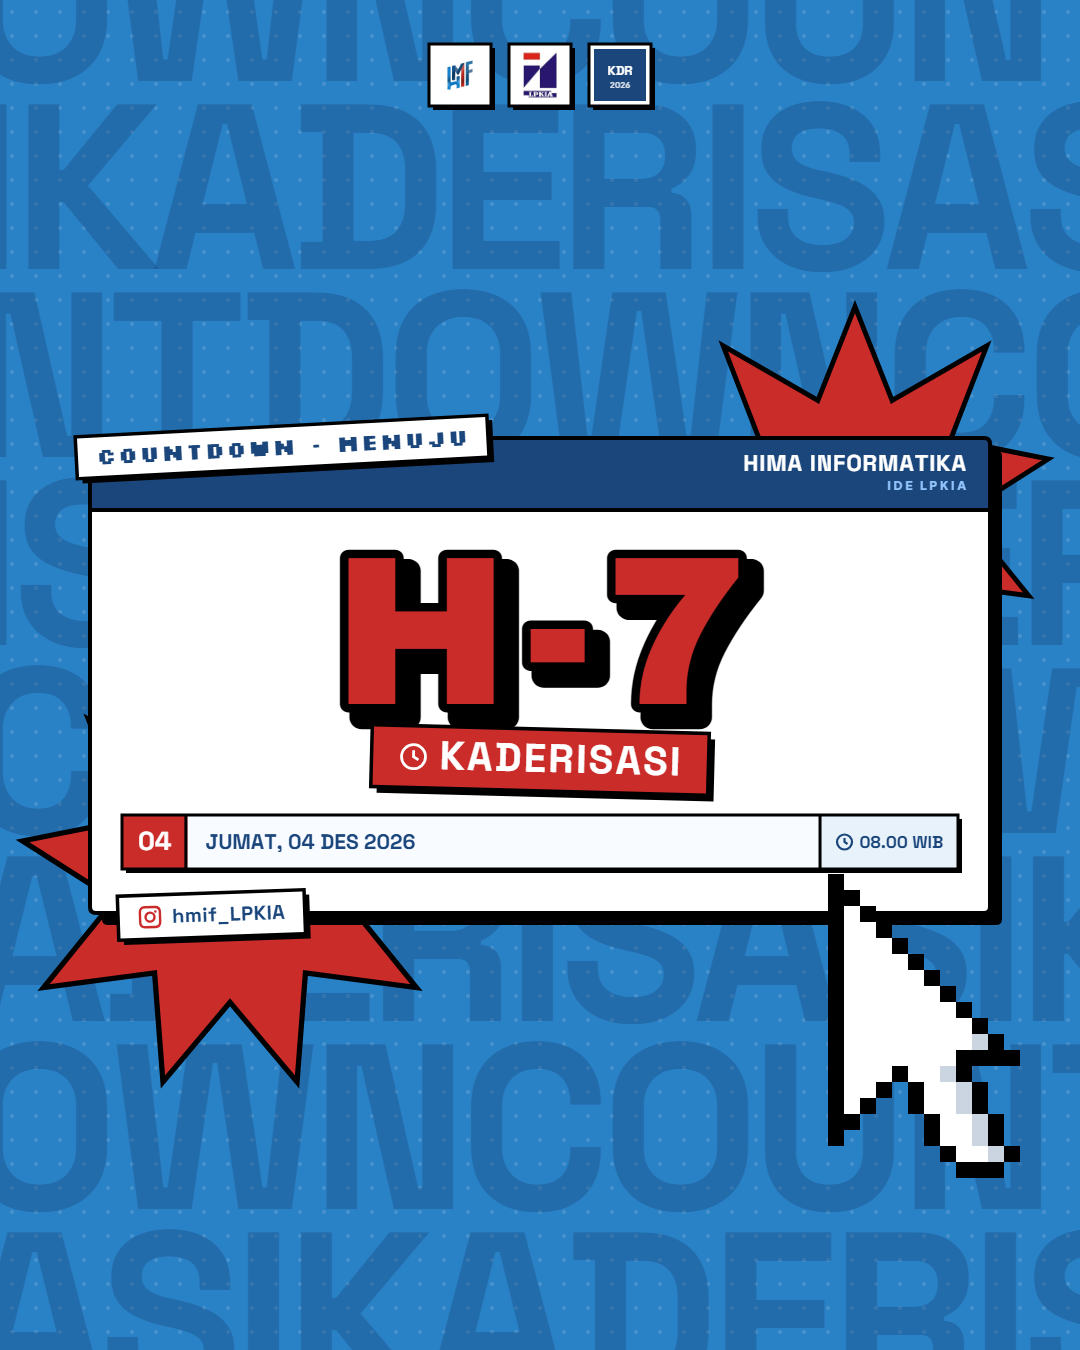
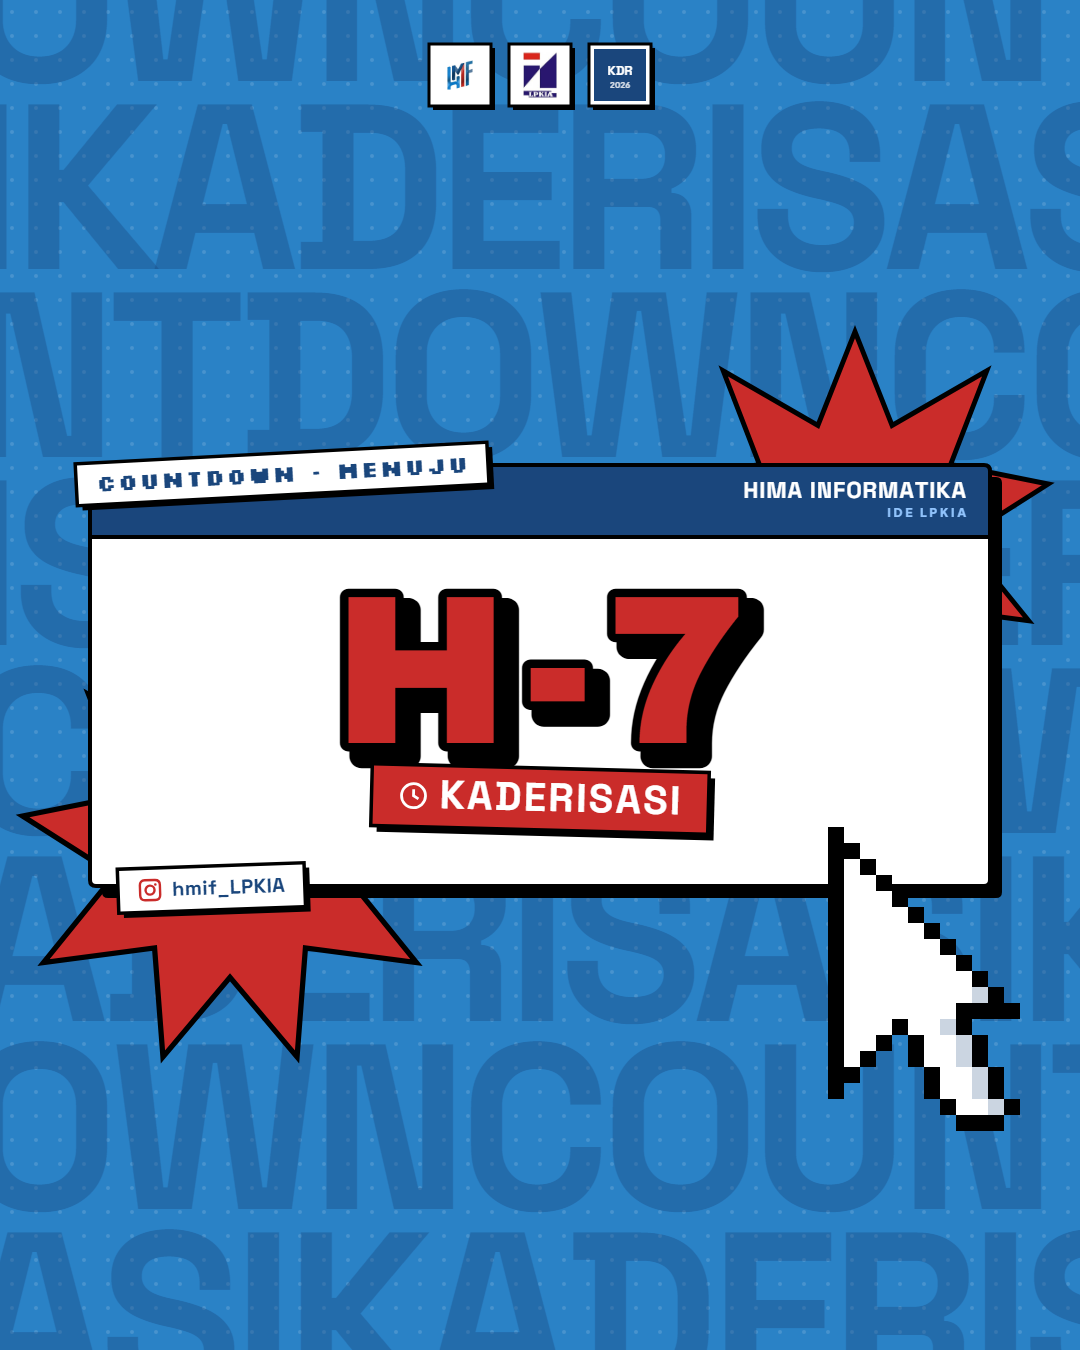
style: remove schedule strip from Layout 2 for cleaner H-7 hero focus

Changed region(s): [[0.0, 0.2178, 0.9778, 0.8711], [0.9167, 0.4044, 0.9778, 0.4667]]

diff --git a/index.html b/index.html
@@ -190,22 +190,22 @@
         .ratio-1-1 .l2-hero-svg { width: 560px; height: 160px; }
         .ratio-9-16 .l2-hero-svg { width: 680px; height: 225px; }
 
-        .l2-star-tr { top: 50%; right: 20px; transform: translateY(-380px); width: 410px; height: 410px; }
-        .l2-star-bl { top: 50%; left: 10px;  transform: translateY(-10px);  width: 440px; height: 440px; }
-        .ratio-9-16 .l2-star-tr { transform: translateY(-410px); width: 450px; height: 450px; }
-        .ratio-9-16 .l2-star-bl { transform: translateY(0px);   width: 480px; height: 480px; }
-        .ratio-1-1  .l2-star-tr { transform: translateY(-340px); width: 340px; height: 340px; }
-        .ratio-1-1  .l2-star-bl { transform: translateY(-10px);  width: 360px; height: 360px; }
+        .l2-star-tr { top: 50%; right: 20px; transform: translateY(-355px); width: 410px; height: 410px; }
+        .l2-star-bl { top: 50%; left: 10px;  transform: translateY(-35px);  width: 440px; height: 440px; }
+        .ratio-9-16 .l2-star-tr { transform: translateY(-385px); width: 450px; height: 450px; }
+        .ratio-9-16 .l2-star-bl { transform: translateY(-25px);  width: 480px; height: 480px; }
+        .ratio-1-1  .l2-star-tr { transform: translateY(-320px); width: 340px; height: 340px; }
+        .ratio-1-1  .l2-star-bl { transform: translateY(-35px);  width: 360px; height: 360px; }
 
         .l2-cursor-wrap {
             position: absolute;
             right: -30px;
-            bottom: -265px;
+            bottom: -245px;
             z-index: 30;
             pointer-events: none;
         }
-        .ratio-9-16 .l2-cursor-wrap { right: -26px; bottom: -298px; transform: scale(1.12); transform-origin: bottom right; }
-        .ratio-1-1  .l2-cursor-wrap { right: -24px; bottom: -224px; transform: scale(0.86); transform-origin: bottom right; }
+        .ratio-9-16 .l2-cursor-wrap { right: -26px; bottom: -275px; transform: scale(1.12); transform-origin: bottom right; }
+        .ratio-1-1  .l2-cursor-wrap { right: -24px; bottom: -210px; transform: scale(0.86); transform-origin: bottom right; }
 
         /* ================= THEME 1: NEUBRUTALISM ================= */
         .style-neubrutalism {
@@ -1023,8 +1023,8 @@
                                         </div>
                                     </div>
 
-                                    <!-- White Dialog Hero Highlight (Fokus H-7 + Stamp KADERISASI + Jadwal Tanggal & Waktu) -->
-                                    <div class="px-8 pt-6 pb-11 flex flex-col items-center">
+                                    <!-- White Dialog Hero Highlight (Fokus H-7 + Stamp KADERISASI) -->
+                                    <div class="px-8 pt-9 pb-14 flex flex-col items-center">
                                         <!-- Giant H-7 Highlight SVG -->
                                         <svg viewBox="0 0 680 220" class="l2-hero-svg overflow-visible" aria-label="H-7">
                                             <text id="l2SvgShadow" x="354" y="122" text-anchor="middle" dominant-baseline="central"
@@ -1048,29 +1048,6 @@
                                             <span id="l2OutTitle" class="font-display text-[40px] font-bold uppercase tracking-[0.06em] leading-none">
                                                 KADERISASI
                                             </span>
-                                        </div>
-
-                                        <!-- Single Unified Schedule Bar (Tanpa Lokasi) -->
-                                        <div class="w-full mt-6">
-                                            <div class="l2-chip w-full flex items-center justify-between overflow-hidden">
-                                                <div class="flex items-center min-w-0">
-                                                    <div id="l2OutNum" class="l2-chip-num px-4 py-2.5 font-display text-[26px] font-bold leading-none shrink-0">
-                                                        04
-                                                    </div>
-                                                    <p id="l2OutDate" class="font-display text-[21px] font-bold uppercase text-[#1A467C] px-4 leading-none truncate">
-                                                        JUMAT, 04 DES 2026
-                                                    </p>
-                                                </div>
-                                                <div class="px-4 py-2.5 bg-[#E8F2FA] border-l-[3px] border-black flex items-center gap-2 shrink-0">
-                                                    <svg class="w-4 h-4 text-[#1A467C] shrink-0" fill="none" stroke="currentColor" stroke-width="2.5" viewBox="0 0 24 24" aria-hidden="true">
-                                                        <circle cx="12" cy="12" r="9"></circle>
-                                                        <path stroke-linecap="square" d="M12 7v5l3.5 2"></path>
-                                                    </svg>
-                                                    <p id="l2OutTime" class="font-display text-[17px] font-bold uppercase text-[#1A467C] leading-none">
-                                                        08.00 WIB
-                                                    </p>
-                                                </div>
-                                            </div>
                                         </div>
                                     </div>
                                 </div>
@@ -2271,10 +2248,10 @@
             };
 
             const starCfg = currentRatio === '9-16'
-                ? { trSize: 450, trY: 410, blSize: 480, blY: 0 }
+                ? { trSize: 450, trY: 385, blSize: 480, blY: 25 }
                 : (currentRatio === '1-1'
-                    ? { trSize: 340, trY: 340, blSize: 360, blY: 10 }
-                    : { trSize: 410, trY: 380, blSize: 440, blY: 10 });
+                    ? { trSize: 340, trY: 320, blSize: 360, blY: 35 }
+                    : { trSize: 410, trY: 355, blSize: 440, blY: 35 });
 
             drawStar(W - 20 - starCfg.trSize, H / 2 - starCfg.trY, starCfg.trSize);
             drawStar(10, H / 2 - starCfg.blY, starCfg.blSize);
@@ -2288,10 +2265,9 @@
             const tbH = 74;
             const heroSvgDim = currentRatio === '9-16' ? { w: 680, h: 225 } : (currentRatio === '1-1' ? { w: 560, h: 160 } : { w: 640, h: 205 });
             const stampBoxH = 62;
-            const chipRowH = 54;
-            const bodyPt = 24;
-            const bodyPb = 44;
-            const winH = tbH + bodyPt + heroSvgDim.h - 12 + stampBoxH + 24 + chipRowH + bodyPb;
+            const bodyPt = 36;
+            const bodyPb = 56;
+            const winH = tbH + bodyPt + heroSvgDim.h - 12 + stampBoxH + bodyPb;
             const winY = Math.round((H - winH) / 2);
 
             // Top 3 Logos Bar Pinned at Top Margin of Canvas (Zona Merah)
@@ -2433,55 +2409,6 @@
             drawTextTrack(title, -stW / 2 + 28 + 28 + 12, 1, '700 40px "Space Grotesk", sans-serif', '#FFFFFF', 2.4, 'left');
             ctx.restore();
 
-            // Unified Single Schedule Bar (Tanpa Lokasi: 04 | JUMAT, 04 DES 2026 | Jam)
-            const bodyX = winX + 32;
-            const bodyW = winW - 64;
-            const chipY = stampCY + stampBoxH / 2 + 24;
-
-            ctx.fillStyle = '#000000';
-            ctx.fillRect(bodyX + 4, chipY + 4, bodyW, chipRowH);
-            ctx.fillStyle = '#F8FBFF';
-            ctx.fillRect(bodyX, chipY, bodyW, chipRowH);
-
-            ctx.font = '700 26px "Space Grotesk", sans-serif';
-            const numW = Math.max(ctx.measureText(num).width + 32, 60);
-            ctx.fillStyle = '#CA2C2A';
-            ctx.fillRect(bodyX, chipY, numW, chipRowH);
-            ctx.fillStyle = '#000000';
-            ctx.fillRect(bodyX + numW - 3, chipY, 3, chipRowH);
-
-            const timeTxt = time.toUpperCase();
-            ctx.font = '700 17px "Space Grotesk", sans-serif';
-            const timeTxtW = ctx.measureText(timeTxt).width;
-            const timeBoxW = 32 + 16 + 8 + timeTxtW;
-            const timeBoxX = bodyX + bodyW - timeBoxW;
-            ctx.fillStyle = '#E8F2FA';
-            ctx.fillRect(timeBoxX, chipY, timeBoxW, chipRowH);
-            ctx.fillStyle = '#000000';
-            ctx.fillRect(timeBoxX, chipY, 3, chipRowH);
-
-            ctx.lineWidth = 3;
-            ctx.strokeStyle = '#000000';
-            ctx.strokeRect(bodyX, chipY, bodyW, chipRowH);
-
-            drawTextTrack(num, bodyX + numW / 2, chipY + chipRowH / 2 + 1, '700 26px "Space Grotesk", sans-serif', '#FFFFFF', 0, 'center');
-            drawTextTrack(date, bodyX + numW + 18, chipY + chipRowH / 2 + 1, '700 21px "Space Grotesk", sans-serif', '#1A467C', 0, 'left');
-
-            // Right time clock icon + text
-            const tClkX = timeBoxX + 18 + 8;
-            const tClkY = chipY + chipRowH / 2;
-            ctx.strokeStyle = '#1A467C';
-            ctx.lineWidth = 2.2;
-            ctx.beginPath();
-            ctx.arc(tClkX, tClkY, 7.5, 0, Math.PI * 2);
-            ctx.stroke();
-            ctx.beginPath();
-            ctx.moveTo(tClkX, tClkY - 4);
-            ctx.lineTo(tClkX, tClkY);
-            ctx.lineTo(tClkX + 3, tClkY + 2);
-            ctx.stroke();
-            drawTextTrack(timeTxt, tClkX + 15, chipY + chipRowH / 2 + 1, '700 17px "Space Grotesk", sans-serif', '#1A467C', 0, 'left');
-
             // Bottom-Left Taped Instagram Sticker (Zona Putih): SVG IG Camera + hmif_LPKIA
             ctx.font = '700 20px "Space Grotesk", sans-serif';
             const igTxtW = ctx.measureText(igHandle).width + Math.max(0, igHandle.length - 1) * 0.4;
@@ -2517,10 +2444,10 @@
 
             // 4. Giant 8-Bit Pixelated Arrow Cursor anchored to bottom-right of window
             const curCfg = currentRatio === '9-16'
-                ? { unit: 16 * 1.12, rOff: -26, bOff: -298 }
+                ? { unit: 16 * 1.12, rOff: -26, bOff: -275 }
                 : (currentRatio === '1-1'
-                    ? { unit: 16 * 0.86, rOff: -24, bOff: -224 }
-                    : { unit: 16, rOff: -30, bOff: -265 });
+                    ? { unit: 16 * 0.86, rOff: -24, bOff: -210 }
+                    : { unit: 16, rOff: -30, bOff: -245 });
 
             const curW = 12 * curCfg.unit;
             const curH = 19 * curCfg.unit;
